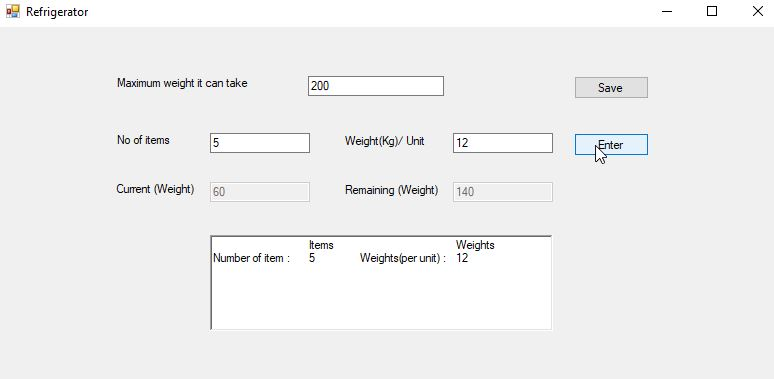
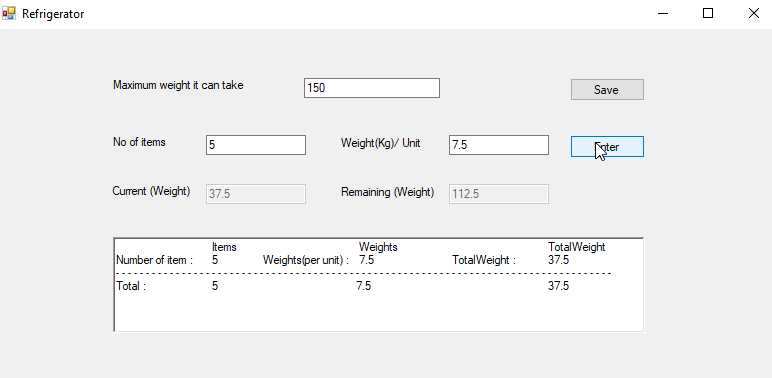
updated done

diff --git a/RefrigeratorApp/RefrigeratorApp/RefrigeratorUI.cs b/RefrigeratorApp/RefrigeratorApp/RefrigeratorUI.cs
@@ -39,14 +39,17 @@ namespace RefrigeratorApp
                 aRefrigerator.Weights.Add(weight);
                 currentWeightTextBox.Text = (aRefrigerator.GetCurrentWeight(totalWeight)).ToString(CultureInfo.InvariantCulture);
                 remainingWeightTextBox.Text = aRefrigerator.GetRemainingWeight().ToString(CultureInfo.CurrentCulture);
-                string message = "\t\tItems \t\t\t Weights\n";
+                string message = "\t\tItems \t\t\t Weights\t\t\t\tTotalWeight\n";
                 int index=0;
                 foreach (double data in aRefrigerator.Weights)
                 {
-                    message += "Number of item : \t" + aRefrigerator.Items[index]+ "\t Weights(per unit) :\t " + data + "\n";
+                    message += "Number of item : \t" + aRefrigerator.Items[index]+ "\t Weights(per unit) :\t " + data + "\t\tTotalWeight :\t"+aRefrigerator.TotalWeights[index]+"\n";
                     index++;
                 }
 
+                message += "- - - - - - - - - - - - - - - - - - - - - - - - - - - - - - - - - - - - - - - - - - - - - - - - - - - - - - - - - - - - - - - - - - - - - - - - - - - - - - - - - - - \n";
+                message += "Total :\t\t" + aRefrigerator.Items.Sum() + "\t\t\t" + aRefrigerator.Weights.Sum() + "\t\t\t\t" +
+                           aRefrigerator.TotalWeights.Sum();
                 weightShowRichTextBox.Text = message;
             }
             catch (Exception exception)

diff --git a/RefrigeratorApp/RefrigeratorApp/RefrigeratorUI.Designer.cs b/RefrigeratorApp/RefrigeratorApp/RefrigeratorUI.Designer.cs
@@ -162,9 +162,9 @@
             // 
             // weightShowRichTextBox
             // 
-            this.weightShowRichTextBox.Location = new System.Drawing.Point(213, 208);
+            this.weightShowRichTextBox.Location = new System.Drawing.Point(120, 208);
             this.weightShowRichTextBox.Name = "weightShowRichTextBox";
-            this.weightShowRichTextBox.Size = new System.Drawing.Size(343, 96);
+            this.weightShowRichTextBox.Size = new System.Drawing.Size(532, 96);
             this.weightShowRichTextBox.TabIndex = 3;
             this.weightShowRichTextBox.Text = "";
             // 
